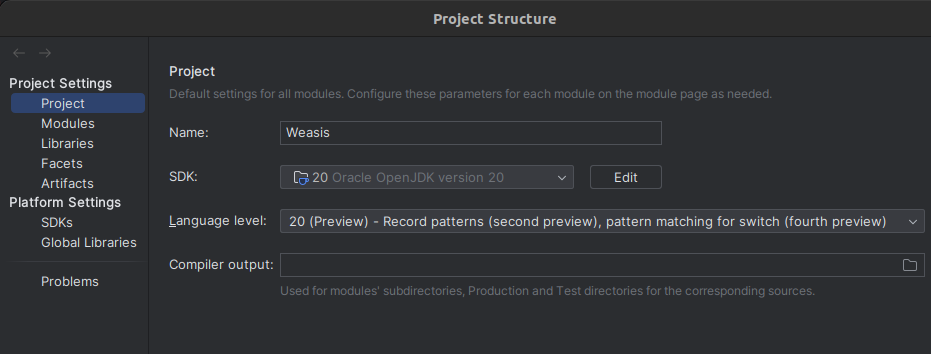
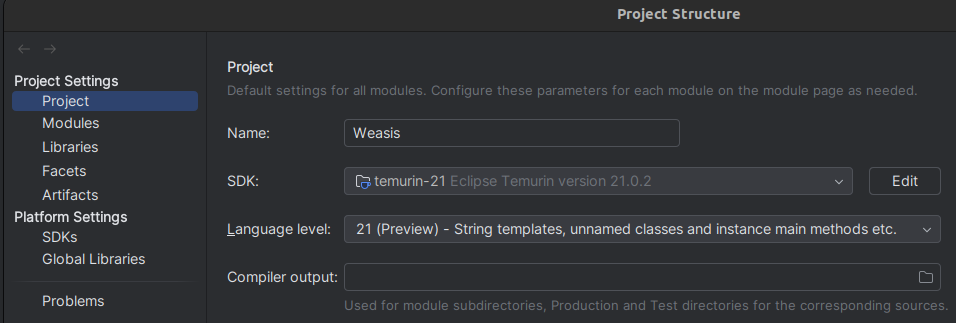
Fix guidelines

diff --git a/content/getting-started/guidelines.en.md b/content/getting-started/guidelines.en.md
@@ -14,7 +14,7 @@ We recommend the use of [IntelliJ IDEA](https://www.jetbrains.com/idea/) because
 ### Prerequisites
 
 1. Install [IntelliJ IDEA](https://www.jetbrains.com/idea/) (Community or Ultimate Edition 2023.1 or higher)
-2. Use JDK 21 or higher and set the language level to `20 Preview`.
+2. Use JDK 21 or higher and set the language level to `21 Preview`.
 ![Project Structure](/images/conf/project-structure.png)
 3. In _File > Settings... > Plugins_ install google-java-format plugin from Marketplace and enable it from *google-java-format Settings*
 
